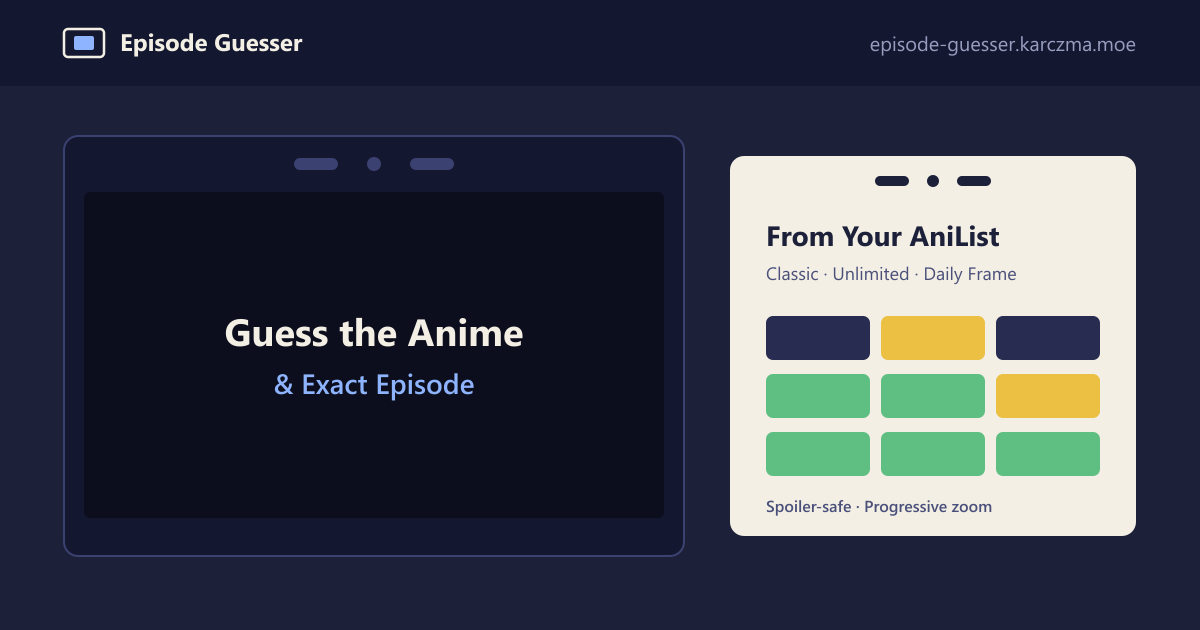
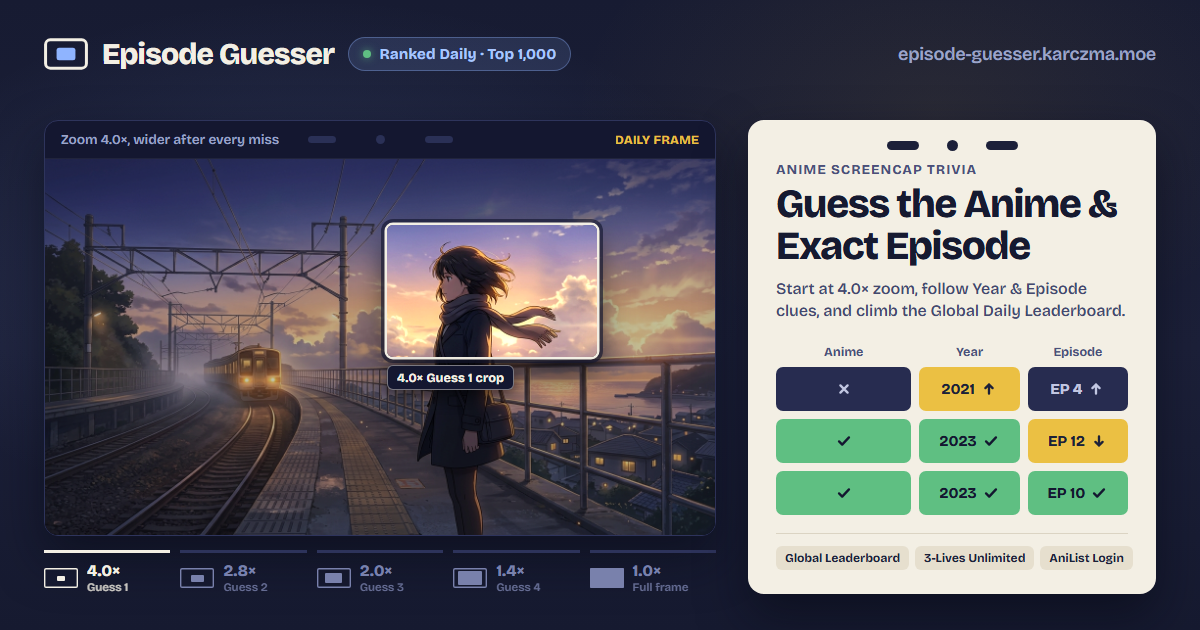
Add custom 1200x630 Open Graph preview image and refresh social embed metadata

diff --git a/src/app.html b/src/app.html
@@ -6,25 +6,35 @@
 		<meta name="color-scheme" content="dark" />
 		<meta
 			name="description"
-			content="Guess the anime and exact episode from a single screencap pulled from your AniList."
+			content="Guess the anime and exact episode from a single zoomed screencap. Compete on the Ranked Global Daily Leaderboard (Top 1,000), Classic, or 3-Lives Unlimited with your AniList."
 		/>
 		<meta name="theme-color" content="#141730" />
+		<meta property="og:site_name" content="Episode Guesser" />
 		<meta property="og:title" content="Episode Guesser — Anime Screencap Game" />
 		<meta
 			property="og:description"
-			content="Guess the anime and exact episode from a single screencap pulled from your watched AniList. Play Classic, Unlimited, or Daily Frame."
+			content="Guess the anime and exact episode from a single zoomed screencap. Ranked Daily Frame (Top 1,000 + Global Leaderboard), Classic, and 3-Lives Unlimited."
 		/>
 		<meta property="og:type" content="website" />
 		<meta property="og:url" content="https://episode-guesser.karczma.moe" />
-		<meta property="og:image" content="https://episode-guesser.karczma.moe/og-image.png" />
+		<meta property="og:image" content="https://episode-guesser.karczma.moe/og-image.png?v=2" />
+		<meta property="og:image:type" content="image/png" />
 		<meta property="og:image:width" content="1200" />
 		<meta property="og:image:height" content="630" />
+		<meta
+			property="og:image:alt"
+			content="Episode Guesser — Anime Screencap Game with progressive 4.0× to 1.0× zoom, Daily feedback grid, Ranked Top 1,000 pool, and Global Leaderboard"
+		/>
 		<meta name="twitter:card" content="summary_large_image" />
-		<meta name="twitter:image" content="https://episode-guesser.karczma.moe/og-image.png" />
+		<meta name="twitter:image" content="https://episode-guesser.karczma.moe/og-image.png?v=2" />
+		<meta
+			name="twitter:image:alt"
+			content="Episode Guesser — Anime Screencap Game with progressive 4.0× to 1.0× zoom and Global Daily Leaderboard"
+		/>
 		<meta name="twitter:title" content="Episode Guesser — Anime Screencap Game" />
 		<meta
 			name="twitter:description"
-			content="Guess the anime and exact episode from a single screencap pulled from your watched AniList."
+			content="Guess the anime and exact episode from a single zoomed screencap. Compete on the Ranked Daily Leaderboard or play from your AniList."
 		/>
 		<title>Episode Guesser — Anime Screencap Game</title>
 		<link rel="preconnect" href="https://fonts.googleapis.com" />
